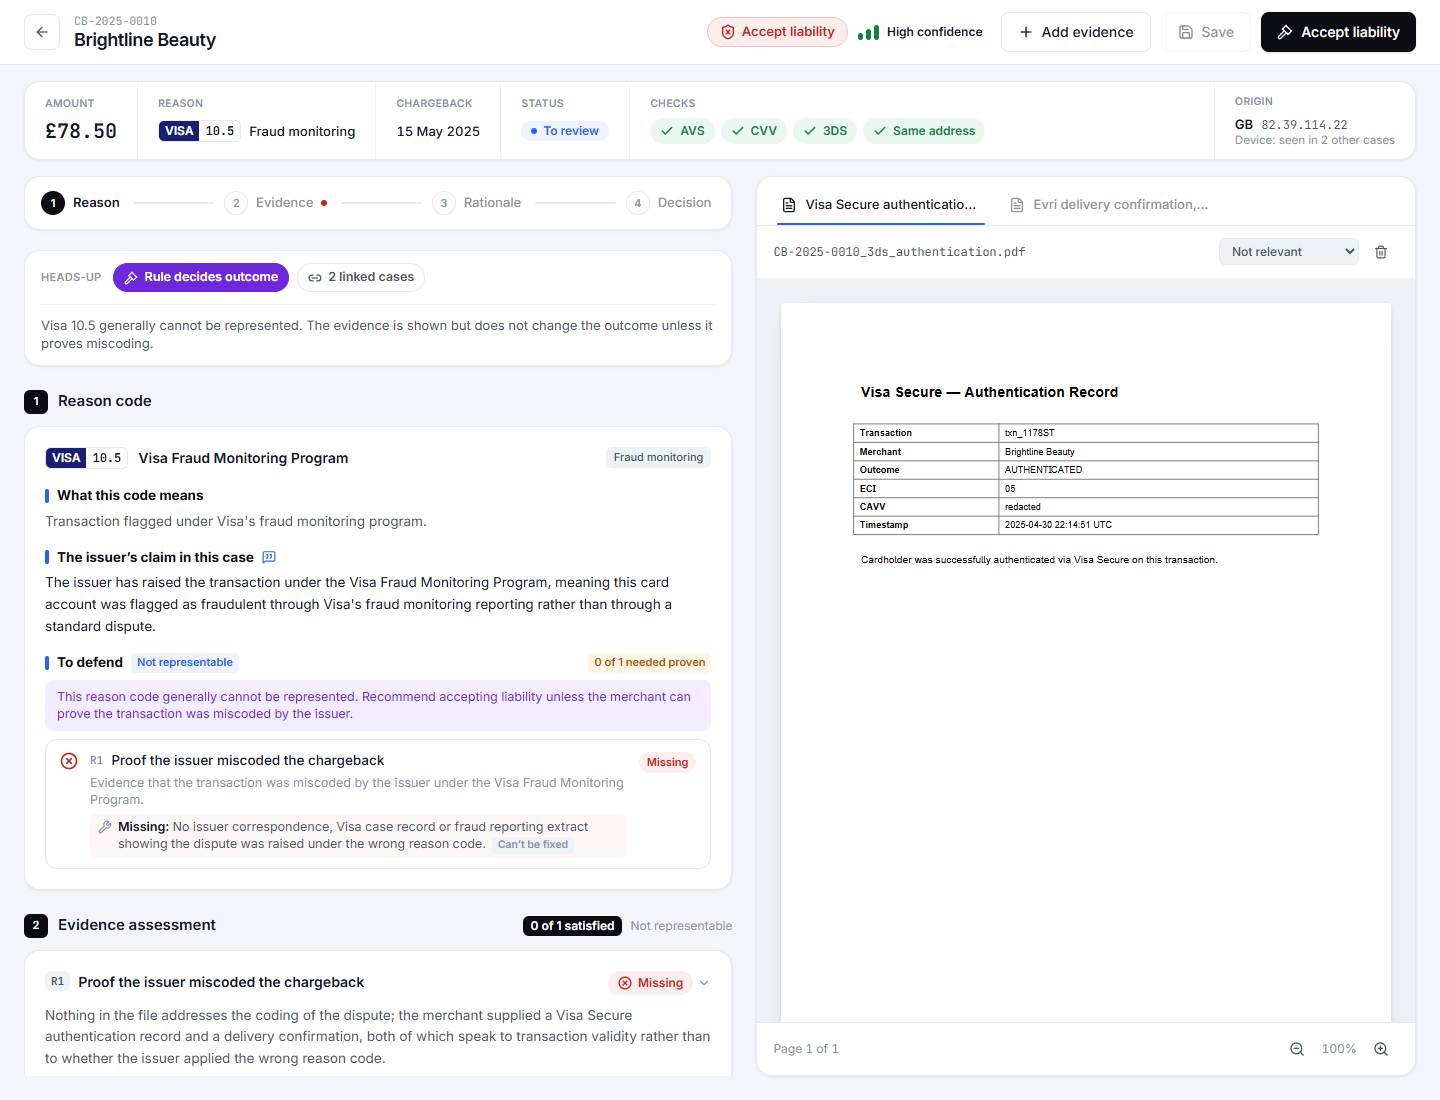
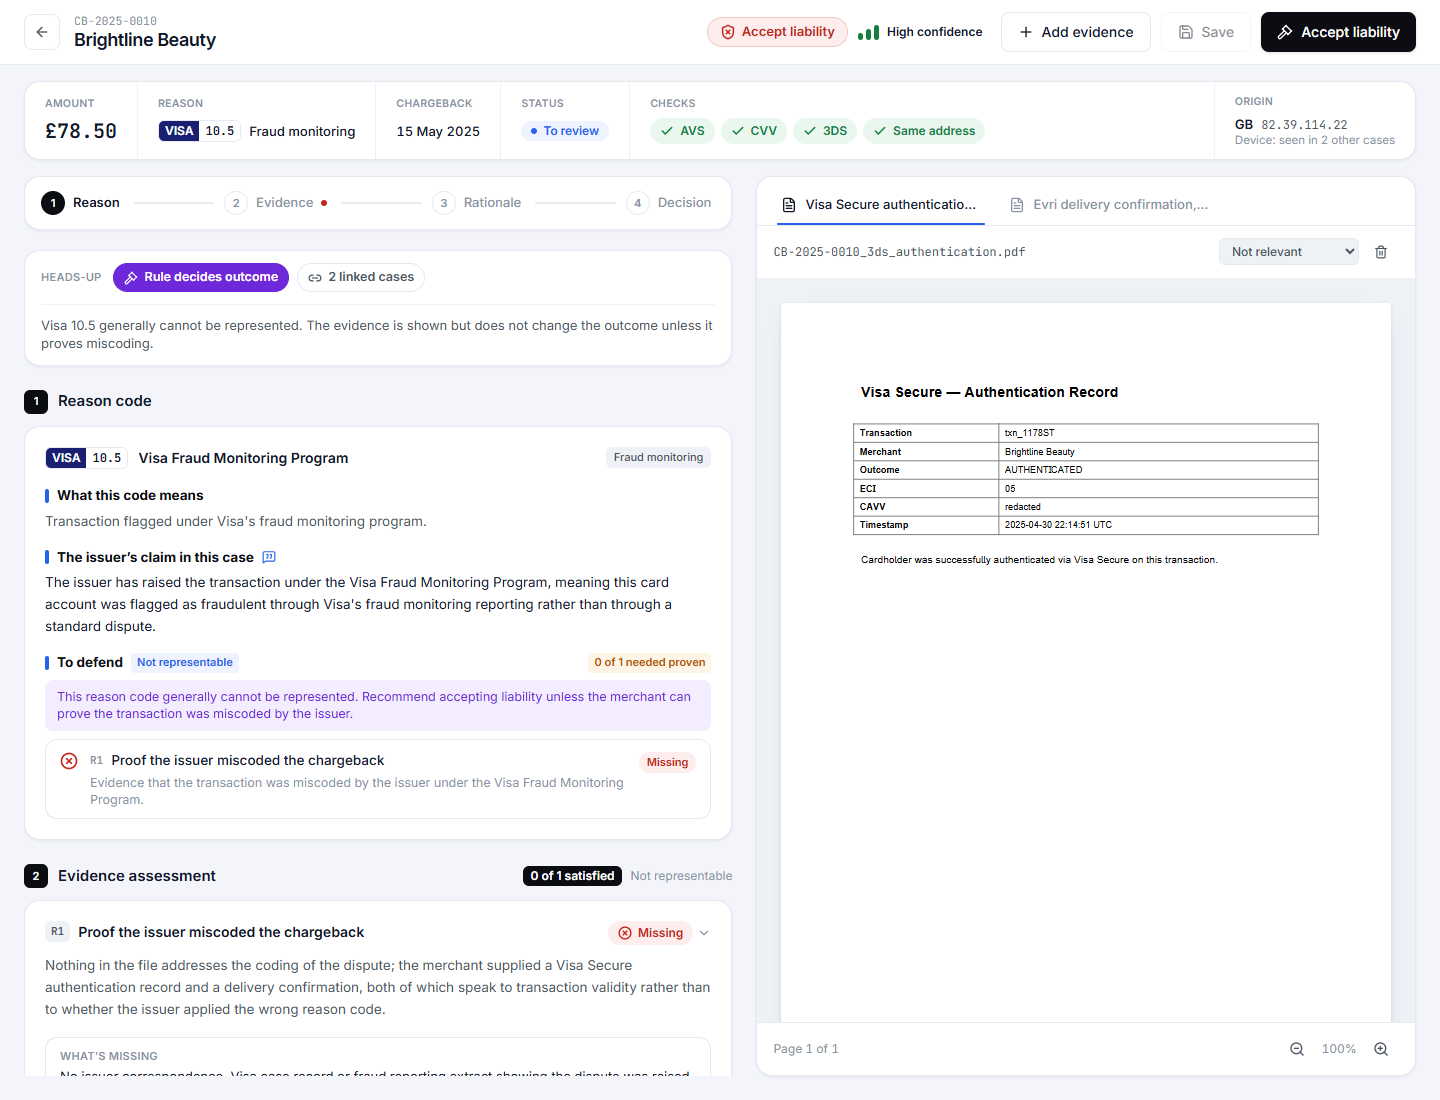
Show gaps at the bottom of each evidence card, with whether the merchant can fix them

Changed region(s): [[0.0, 0.7418, 0.5, 0.9891]]

diff --git a/frontend/src/pages/analysis/Sections.tsx b/frontend/src/pages/analysis/Sections.tsx
@@ -1,6 +1,6 @@
 import clsx from 'clsx'
 import { AnimatePresence, motion } from 'framer-motion'
-import { Check, ChevronDown, Copy, History, Info, Mail, MessageSquareQuote, Plus, RotateCcw, Scale, Sparkles, Wrench, X } from 'lucide-react'
+import { Check, ChevronDown, Copy, History, Info, Mail, MessageSquareQuote, Plus, RotateCcw, Scale, Sparkles, X } from 'lucide-react'
 import { useLayoutEffect, useRef, useState } from 'react'
 import { ACTION, ConfidenceMeter, SchemeBadge, VERDICT } from '../../components/status'
 import { Button, Card, SectionTitle, Tooltip } from '../../components/ui'
@@ -15,8 +15,6 @@ export interface DefendItem {
   title: string
   text: string
   verdict: Verdict
-  gap: string
-  fixable: boolean
 }
 
 type Logic = Workup['rule']['logic']
@@ -31,23 +29,6 @@ const LOGIC_HELP: Record<Exclude<Logic, 'AUTO_ACCEPT'>, string> = {
 function needed(logic: Logic, items: DefendItem[]) {
   if (logic === 'ALL') return items.filter((i) => i.verdict !== 'not_applicable').length
   return logic === 'ANY_TWO' ? 2 : 1
-}
-
-/** Whether a gap could be closed by asking the merchant, with the reason on hover. */
-export function FixTag({ fixable }: { fixable: boolean }) {
-  return (
-    <Tooltip
-      text={
-        fixable
-          ? 'The merchant could supply this, so it goes on the request list.'
-          : 'The facts can’t change (for example a failed check), so more documents won’t help.'
-      }
-    >
-      <span className={clsx('ml-1.5 rounded px-1.5 py-px text-[10.5px] font-semibold whitespace-nowrap', fixable ? 'bg-warn-soft text-warn' : 'bg-line-2 text-muted')}>
-        {fixable ? 'Merchant can fix' : 'Can’t be fixed'}
-      </span>
-    </Tooltip>
-  )
 }
 
 export function ReasonSection({ workup, kase, items, onPick }: { workup: Workup; kase: Case; items: DefendItem[]; onPick: (id: string) => void }) {
@@ -101,7 +82,6 @@ export function ReasonSection({ workup, kase, items, onPick }: { workup: Workup;
               <ul className="divide-y divide-line-2 overflow-hidden rounded-xl border border-line">
                 {items.map((it) => {
                   const v = VERDICT[it.verdict]
-                  const open = (it.verdict === 'partial' || it.verdict === 'missing') && it.gap
                   return (
                     <li key={it.id}>
                       <button onClick={() => onPick(it.id)} className="flex w-full items-start gap-3 px-3.5 py-2.5 text-left transition-colors hover:bg-[#fafbfd]">
@@ -112,19 +92,6 @@ export function ReasonSection({ workup, kase, items, onPick }: { workup: Workup;
                             <span className={clsx('text-[13.5px] font-medium', it.verdict === 'not_applicable' ? 'text-muted line-through decoration-muted/40' : 'text-text')}>{it.title}</span>
                           </span>
                           <span className="mt-0.5 block text-[12.5px] leading-snug text-muted">{it.text}</span>
-                          {open && met && rule.logic !== 'ALL' && (
-                            <span className="mt-1 block text-[12px] text-muted">Not needed: enough items are already proven.</span>
-                          )}
-                          {open && !(met && rule.logic !== 'ALL') && (
-                            <span className={clsx('mt-1.5 flex items-start gap-1.5 rounded-md px-2 py-1 text-[12.5px] leading-snug text-text-2', it.verdict === 'missing' ? 'bg-bad-soft/50' : 'bg-warn-soft/50')}>
-                              <Wrench className="mt-0.5 size-3.5 shrink-0 text-muted" />
-                              <span>
-                                <span className="font-semibold text-text">{it.verdict === 'missing' ? 'Missing: ' : 'Still needed: '}</span>
-                                {it.gap}
-                                <FixTag fixable={it.fixable} />
-                              </span>
-                            </span>
-                          )}
                         </span>
                         <Tooltip text={v.hint}>
                           <span className={clsx('mt-0.5 shrink-0 rounded-full px-2 py-0.5 text-[11px] font-semibold', v.cls)}>{v.label}</span>

diff --git a/frontend/src/pages/analysis/Evidence.tsx b/frontend/src/pages/analysis/Evidence.tsx
@@ -5,11 +5,14 @@ import {
   CalendarCheck,
   CalendarX,
   ChevronDown,
+  CircleCheck,
   Database,
   Eye,
   FileText,
   ImageIcon,
   Info,
+  Lock,
+  MailPlus,
   Pencil,
   RotateCcw,
   ShieldAlert,
@@ -40,6 +43,9 @@ export function EvidenceSection(props: EvidenceProps) {
   const applicable = workup.requirements.filter((r) => verdictOf(r) !== 'not_applicable')
   const satisfied = applicable.filter((r) => verdictOf(r) === 'satisfied').length
   const notUsed = docs.filter((d) => !d.pending && (d.relevance === 'not_relevant' || d.error))
+  // With "any two" or "any one" rules, once enough is proven the remaining gaps don't matter.
+  const need = workup.rule.logic === 'ANY_TWO' ? 2 : 1
+  const enoughProven = ['ANY_TWO', 'ANY_ONE', 'EITHER'].includes(workup.rule.logic) && satisfied >= need
 
   return (
     <section>
@@ -64,7 +70,7 @@ export function EvidenceSection(props: EvidenceProps) {
             animate={{ opacity: 1, y: 0 }}
             transition={{ delay: 0.05 + i * 0.05, duration: 0.25 }}
           >
-            <RequirementCard {...props} req={r} />
+            <RequirementCard {...props} req={r} enoughProven={enoughProven} />
           </motion.div>
         ))}
         {notUsed.length > 0 && (
@@ -88,7 +94,7 @@ export function EvidenceSection(props: EvidenceProps) {
   )
 }
 
-function RequirementCard({ req, docs, previous, verdictOf, override, onOverride, cites, active, onActivate, onHover, flashReq, readOnly }: EvidenceProps & { req: Requirement }) {
+function RequirementCard({ req, docs, previous, verdictOf, override, onOverride, cites, active, onActivate, onHover, flashReq, readOnly, enoughProven }: EvidenceProps & { req: Requirement; enoughProven: boolean }) {
   const verdict = verdictOf(req)
   const ov = override(req.id)
   const mine = cites.filter((c) => c.reqId === req.id)
@@ -170,6 +176,37 @@ function RequirementCard({ req, docs, previous, verdictOf, override, onOverride,
           )}
         </div>
       ) : null}
+
+      {(verdict === 'partial' || verdict === 'missing') && req.gap && (
+        <GapFooter gap={req.gap} fixable={req.fixable} partial={verdict === 'partial'} notNeeded={enoughProven} />
+      )}
+    </div>
+  )
+}
+
+/** What the evidence still lacks, and whether asking the merchant can close the gap. */
+function GapFooter({ gap, fixable, partial, notNeeded }: { gap: string; fixable: boolean; partial: boolean; notNeeded: boolean }) {
+  if (notNeeded) {
+    return (
+      <p className="mt-3 flex items-center gap-2 border-t border-line-2 pt-3 text-[12.5px] text-muted">
+        <CircleCheck className="size-3.5 shrink-0 text-ok" />
+        Not needed for this case: enough requirements are already proven.
+      </p>
+    )
+  }
+  return (
+    <div className="mt-4 overflow-hidden rounded-xl border border-line">
+      <div className="px-3.5 py-2.5">
+        <p className="text-[11px] font-semibold tracking-wide text-muted uppercase">{partial ? 'Still needed' : 'What’s missing'}</p>
+        <p className="mt-1 text-[13px] leading-snug text-text">{gap}</p>
+      </div>
+      <div className={clsx('flex items-start gap-2 border-t px-3.5 py-2 text-[12.5px] leading-snug', fixable ? 'border-warn/15 bg-warn-soft/70 text-warn' : 'border-line bg-line-2/70 text-text-2')}>
+        {fixable ? <MailPlus className="mt-px size-3.5 shrink-0" /> : <Lock className="mt-px size-3.5 shrink-0" />}
+        <span>
+          <span className="font-semibold">{fixable ? 'The merchant can fix this.' : 'This can’t be fixed.'}</span>{' '}
+          {fixable ? 'Ask them for it and add it with Add evidence.' : 'The facts won’t change, so more documents won’t help.'}
+        </span>
+      </div>
     </div>
   )
 }

diff --git a/frontend/src/pages/analysis/AnalysisPage.tsx b/frontend/src/pages/analysis/AnalysisPage.tsx
@@ -382,7 +382,7 @@ function AnalysisView({ detail, viewingOld }: { detail: CaseDetail; viewingOld: 
               <ReasonSection
                 workup={workup}
                 kase={kase}
-                items={workup.requirements.map((r) => ({ id: r.id, title: r.title, text: r.text, verdict: verdictOf(r), gap: r.gap, fixable: r.fixable }))}
+                items={workup.requirements.map((r) => ({ id: r.id, title: r.title, text: r.text, verdict: verdictOf(r) }))}
                 onPick={selectRequirement}
               />
             </div>

diff --git a/WALKTHROUGH.md b/WALKTHROUGH.md
@@ -50,8 +50,8 @@ Case **CB-2025-0002**: the only proof of delivery is a screenshot.
 
 Case **CB-2025-0006** (armchair "not as described"):
 
-1. **Reason code**: what the code means, the issuer's claim in this case (the issuer's original words on hover), and a "To defend" checklist. The checklist says how many items the merchant must prove, counts how many are proven, and for each partial or missing item says what's still needed and whether the merchant can fix it.
-2. **Evidence assessment**: R1 satisfied (the listing); R2 partial (a front-view photo can't show a wobbling frame); R3 missing (the returns policy describes a route, but nothing shows what happened to the cardholder's request).
+1. **Reason code**: what the code means, the issuer's claim in this case (the issuer's original words on hover), and a "To defend" checklist. The checklist says how many items the merchant must prove and counts how many are proven.
+2. **Evidence assessment**: R1 satisfied (the listing); R2 partial (a front-view photo can't show a wobbling frame); R3 missing (the returns policy describes a route, but nothing shows what happened to the cardholder's request). Each partial or missing card ends with what's still needed and whether the merchant can fix it.
 3. **Representment rationale**: numbered points, each editable, ready to file after a light edit.
 4. **Recommended action**: Request more evidence, with what that means, the justification, and how confidence was worked out (each check with a tick or a cross).
 5. **Merchant requests**: specific asks, with *Copy as email*.
